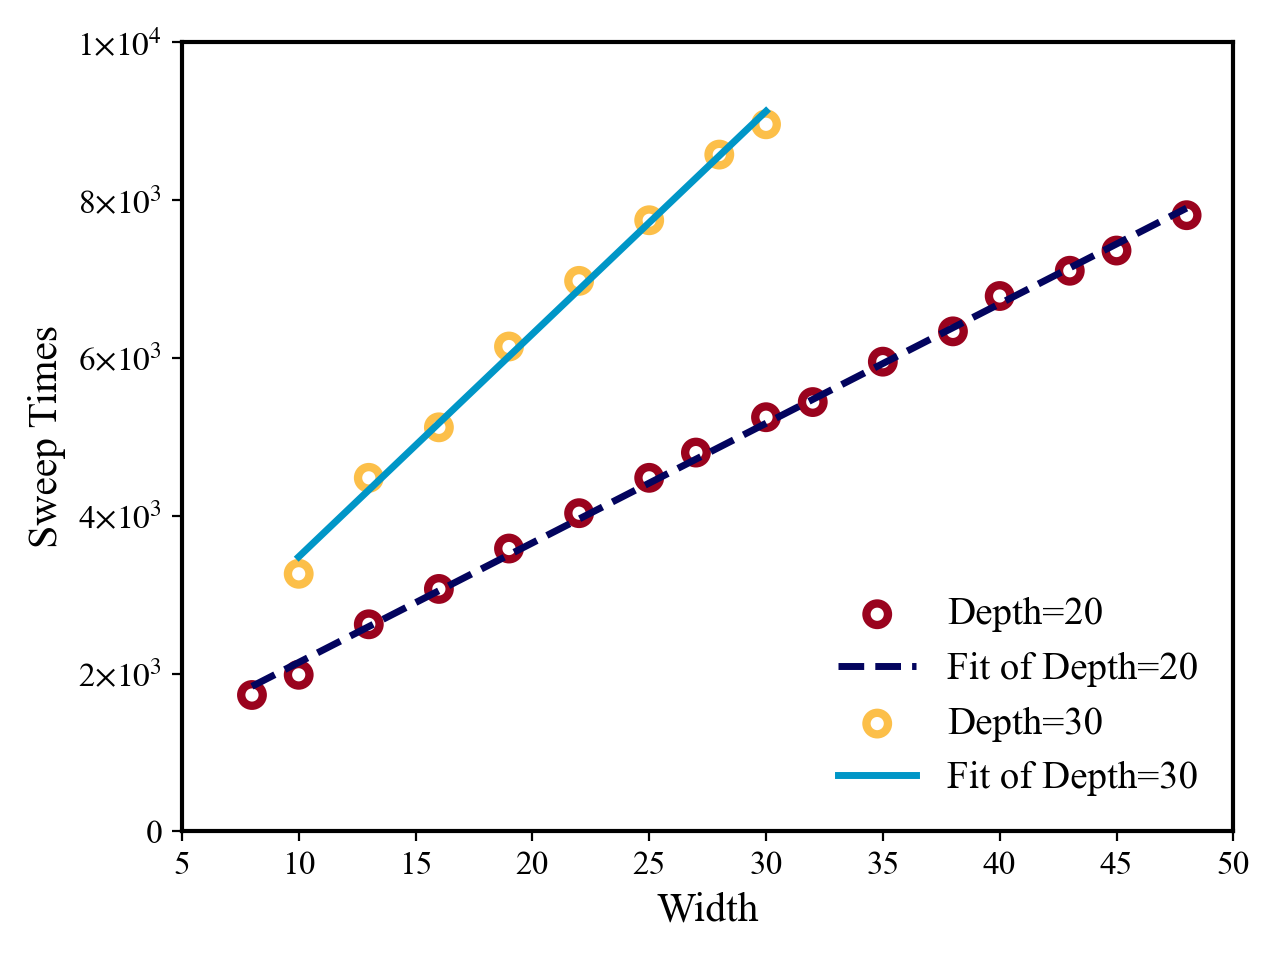
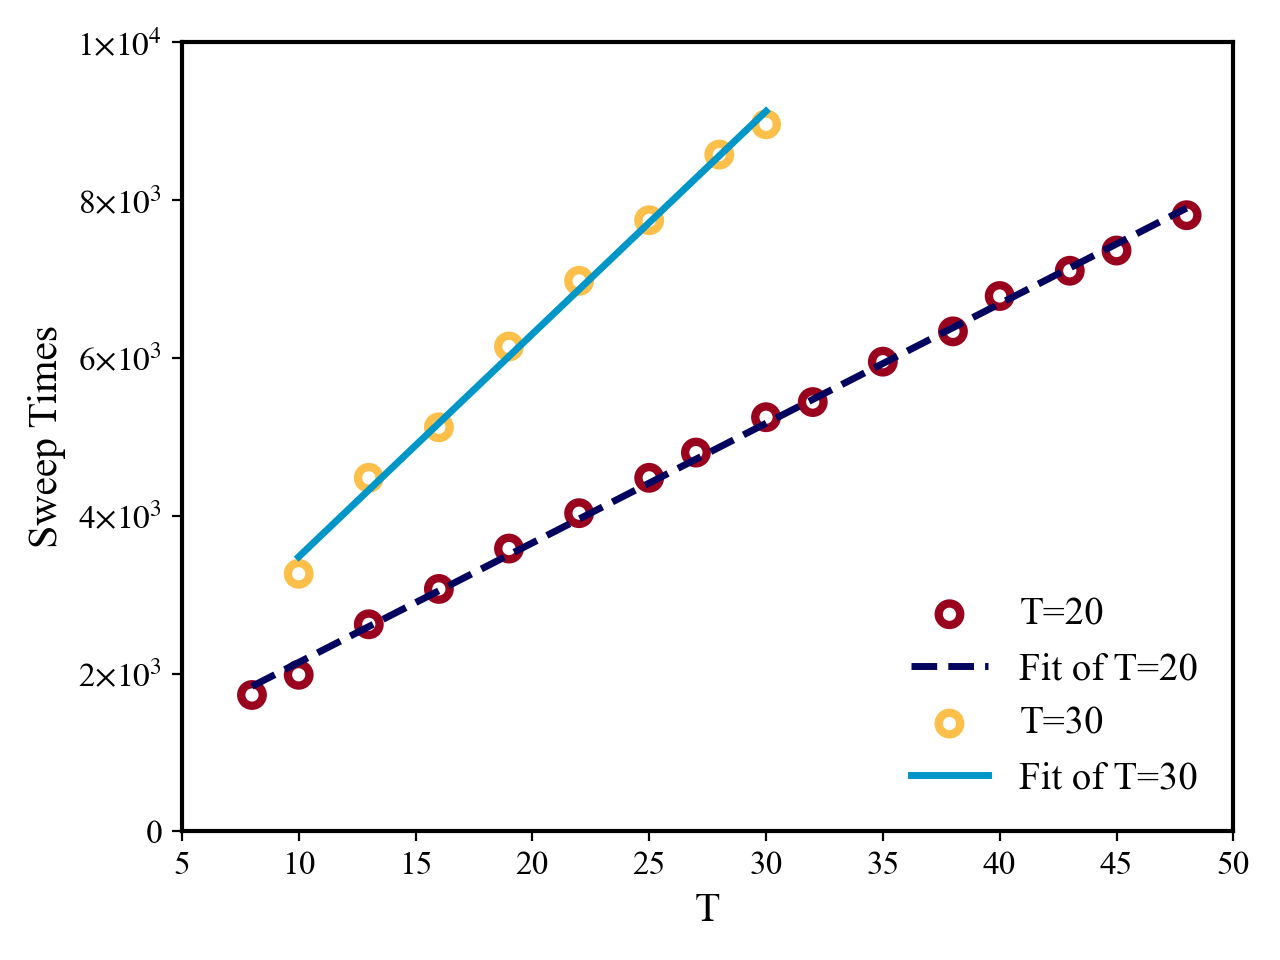
update numerical result parts

diff --git a/paper/main.tex b/paper/main.tex
@@ -774,6 +774,7 @@ The effective width $W$ then should scale as $\exp(-\Delta E_{max} \Lambda^{cW})
 The total annealing time can be calculated as 
 
 \begin{equation}
+    \label{eq:total-annealing-time}
     t_{total} = \frac{T}{W}(\ln(\frac{T}{W}))^{1+ \frac{1}{c\ln(\Lambda)}}
 \end{equation}
 
@@ -808,6 +809,7 @@ $\Delta E_{i}$ in field $i$ with temperature $T_i$. The
 probability to accept this flip would be
 
 \begin{equation}
+    \label{eq:non-equilibrium-SA}
 P = \frac{1}{1 + e^{\sum_i \frac{\Delta E_i}{T_i}}}
 \end{equation}
 
@@ -822,38 +824,58 @@ acceptance probability. We also provided a more general proof by constructing an
 
 Given that simulating a CA with a deep computational layer on the Ising model requires a large number of spins, making large-scale numerical simulations impractical, we opted to introduce a similar but simpler energy model to observe the behavior on a larger scale.
 
-Let us define a model Hamiltonian on a 2D lattice of size $S \times T$ as
+Denote $S$ to be the length of the material along the ``Space'' axis, $T$
+to be the length of the material along the ``Time'' axis. 
+Let us define a simpler but equivalent energy model on a 2D lattice of size $S \times T$, whose hamiltonian
+is given by
 \begin{equation}\label{eq:toy-hamiltonian}
 H = \sum_{t=1}^{T-1}\sum_{i=1}^{S} (n_{i+1, t} \land \neg(n_{i, t} \land \neg n_{i-1, t})) \veebar n_{i,t+1},
 \end{equation}
+
 where $n_{i, t} \in \{0, 1\}$ is the state of the cell at row $i$ and column $t$, the boundary is periodic in the space direction, i.e. $n_{0, t} = n_{S, t}$.
-Its ground state with energy $0$ encodes a $110$ CA, where the direction of computation is from the left to right.
+Its ground state with energy $0$ also encodes a $110$ CA, where the direction of computation is from the left to right.
 \subsection{Numerical result}
 
-
-\ym{I will move this figure to AppendixB to show the equivalent 
-between heat bath and energy gradient. Another plot would be put here that
-show the TL v.s. $m\ln^{1+\frac{1}{c\ln(\Lambda)}}m$}
-We conducted numerical experiments both for energy-gradient and wave-packet scheme, under the condition
-$\Lambda = 1.3, n = 15$ , and fitted each sweep time against
-$m \log^2(m)$. Where $m$ represents the number of the single layers,
-$n$ represents the width per single layer.
+Here we conducted numerical experiments to examine both the time complexity along the ``Space'' direction and the ``Time'' direction.
+We use binary search to determine the speed of the slowly moving heat bath at which
+the simulated annealing procedure would produce 
+a ground state configuration with $50\%$ probability. Denote this speed 
+as $v$, the simulated annealing procedure will then take $\frac{T}{v}$
+stages to complete the computation, each stage we try to flip a spin with 
+probability define in (\ref{eq:non-equilibrium-SA}). We name $\frac{T}{v}$ 
+as Sweep Time.
 
 \begin{figure}[h]
     \centering
-    \includegraphics[width=\columnwidth,keepaspectratio]{../notes/images/numercial result.pdf}
-    \caption{Time v.s. Depth of the material}
+    \includegraphics[width=\columnwidth,keepaspectratio]{../notes/images/MainNumericalResult.png}
+    \caption{Numerical Result}
+    \label{fig:main-numerical-result}
 \end{figure}
 
-Another numerical experiment are conducted to determine the time complexity of the computation along the input memory direction. 
-
-\begin{figure}[H]
-    \centering
-    \includegraphics[width=\columnwidth,keepaspectratio]{../notes/images/toymodel_time_vs_width.png}
-    \caption{Time v.s. width of the material}
-\end{figure}
-
-This indeed informs that the time scale along the memory direction is linear.
+[Fig. \ref{fig:main-numerical-result}(a)] shows the relationship between
+$\ln(\ln(T))$ and $\ln(\frac{\text{Sweep Time}}{T})$ shoule be linear, which implies 
+the time complexity along the ``Time'' direction should scale as $T\ln(T)^{f(\Lambda)}$. 
+We then fit the slopes of each line and $\frac{1}{\ln(\Lambda)}$ and find the 
+empirical constant $c$ in (\ref{eq:total-annealing-time}) to be $3$. [Fig. \ref{fig:main-numerical-result}(b)] shows 
+the the relationship between Sweep Time and $S$ should be linear. Combining these two results, 
+we can conclude that the time complexity should scales as $TS\log(T)^{1+\frac{1}{3\ln(\Lambda)}}$, 
+which is consistent with our theoretical prediction in (\ref{eq:total-annealing-time}).
+% \begin{figure}[h]
+%     \centering
+%     \begin{minipage}[b]{0.485\columnwidth}
+%         \centering
+%         \includegraphics[width=\columnwidth,keepaspectratio]{../notes/images/TimeComplexityalongTaxis.png}
+%         \caption{Time v.s. Depth of the material}
+%         \label{fig:image1}
+%     \end{minipage}
+%     \hspace{0.001\columnwidth} % 两张图片之间的水平间距
+%     \begin{minipage}[b]{0.485\columnwidth}
+%         \centering
+%         \includegraphics[width=\columnwidth,keepaspectratio]{../notes/images/toymodel_time_vs_width.png}
+%         \caption{Time v.s. width of the material}
+%         \label{fig:image2}
+%     \end{minipage}
+% \end{figure}
 
 \section{Physical implementation on Ising machine}\label{spin-glass}
 
